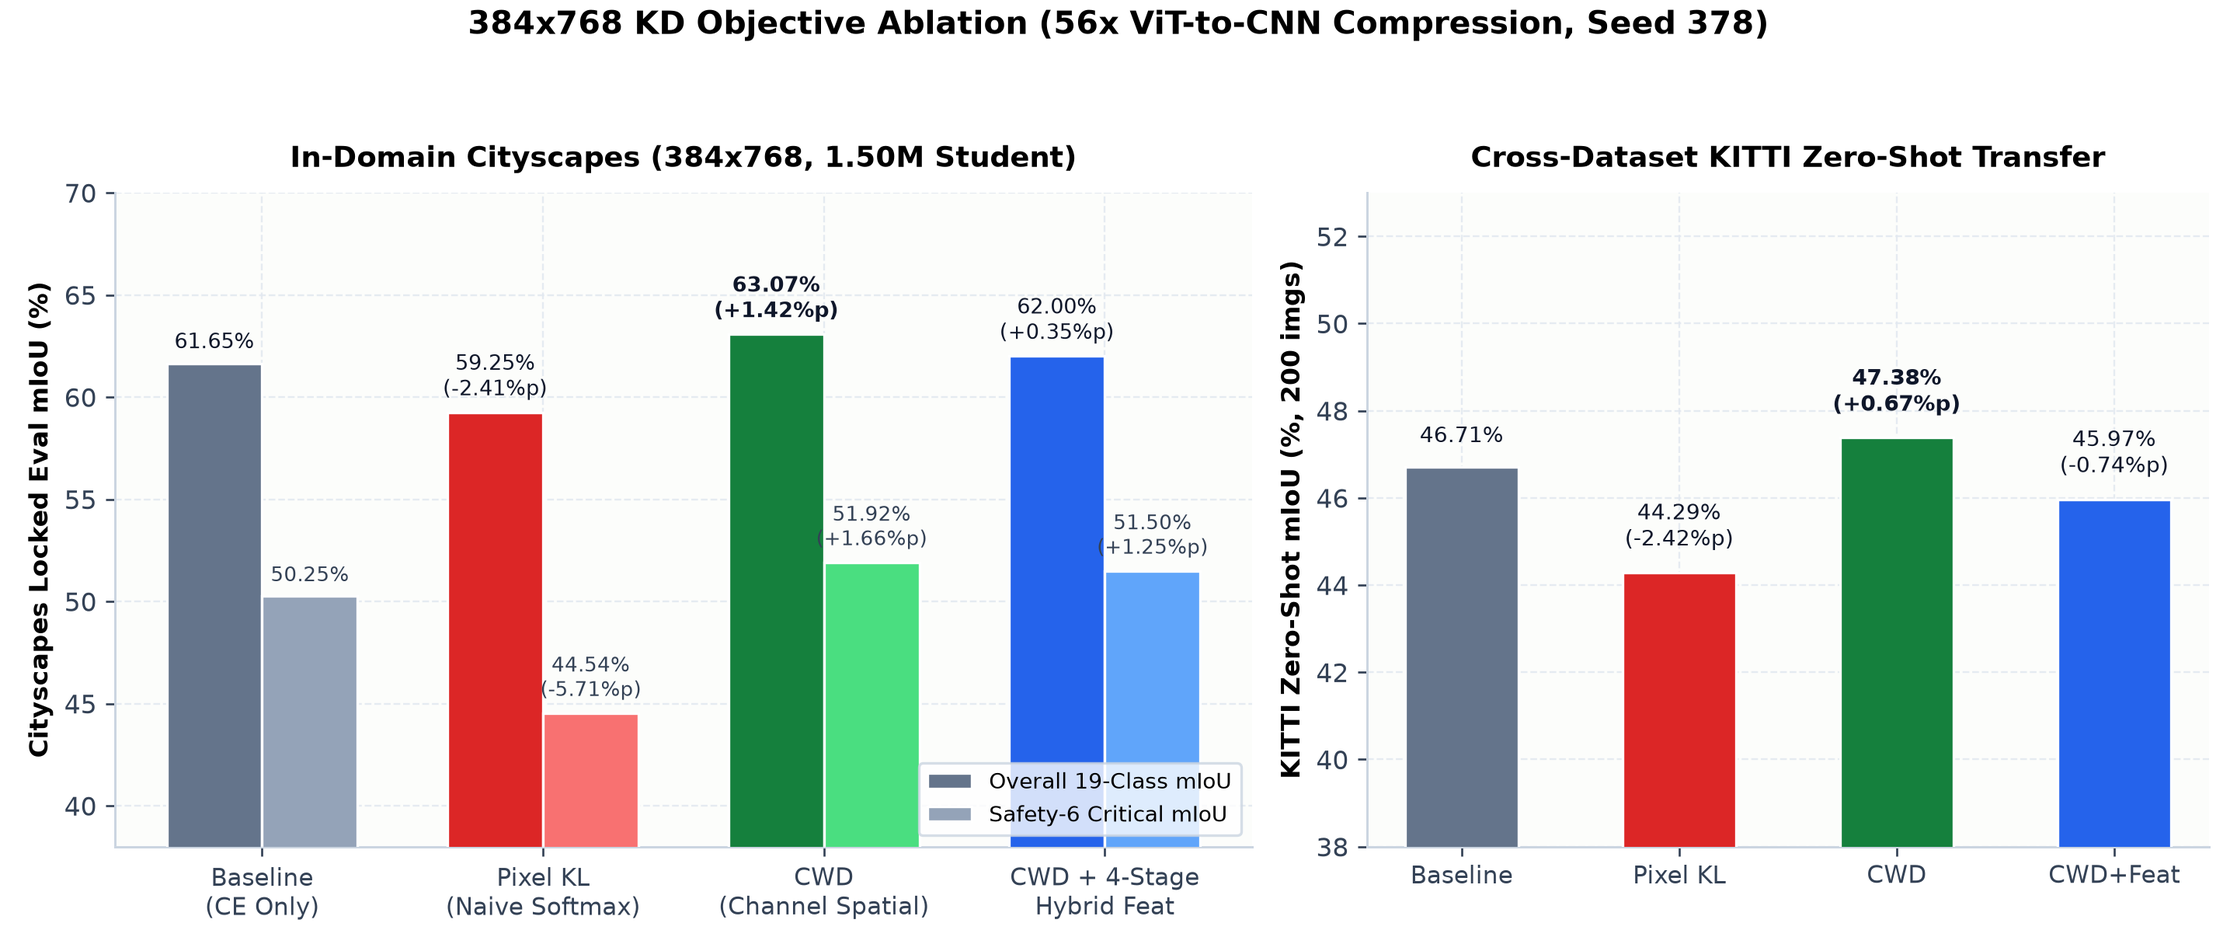
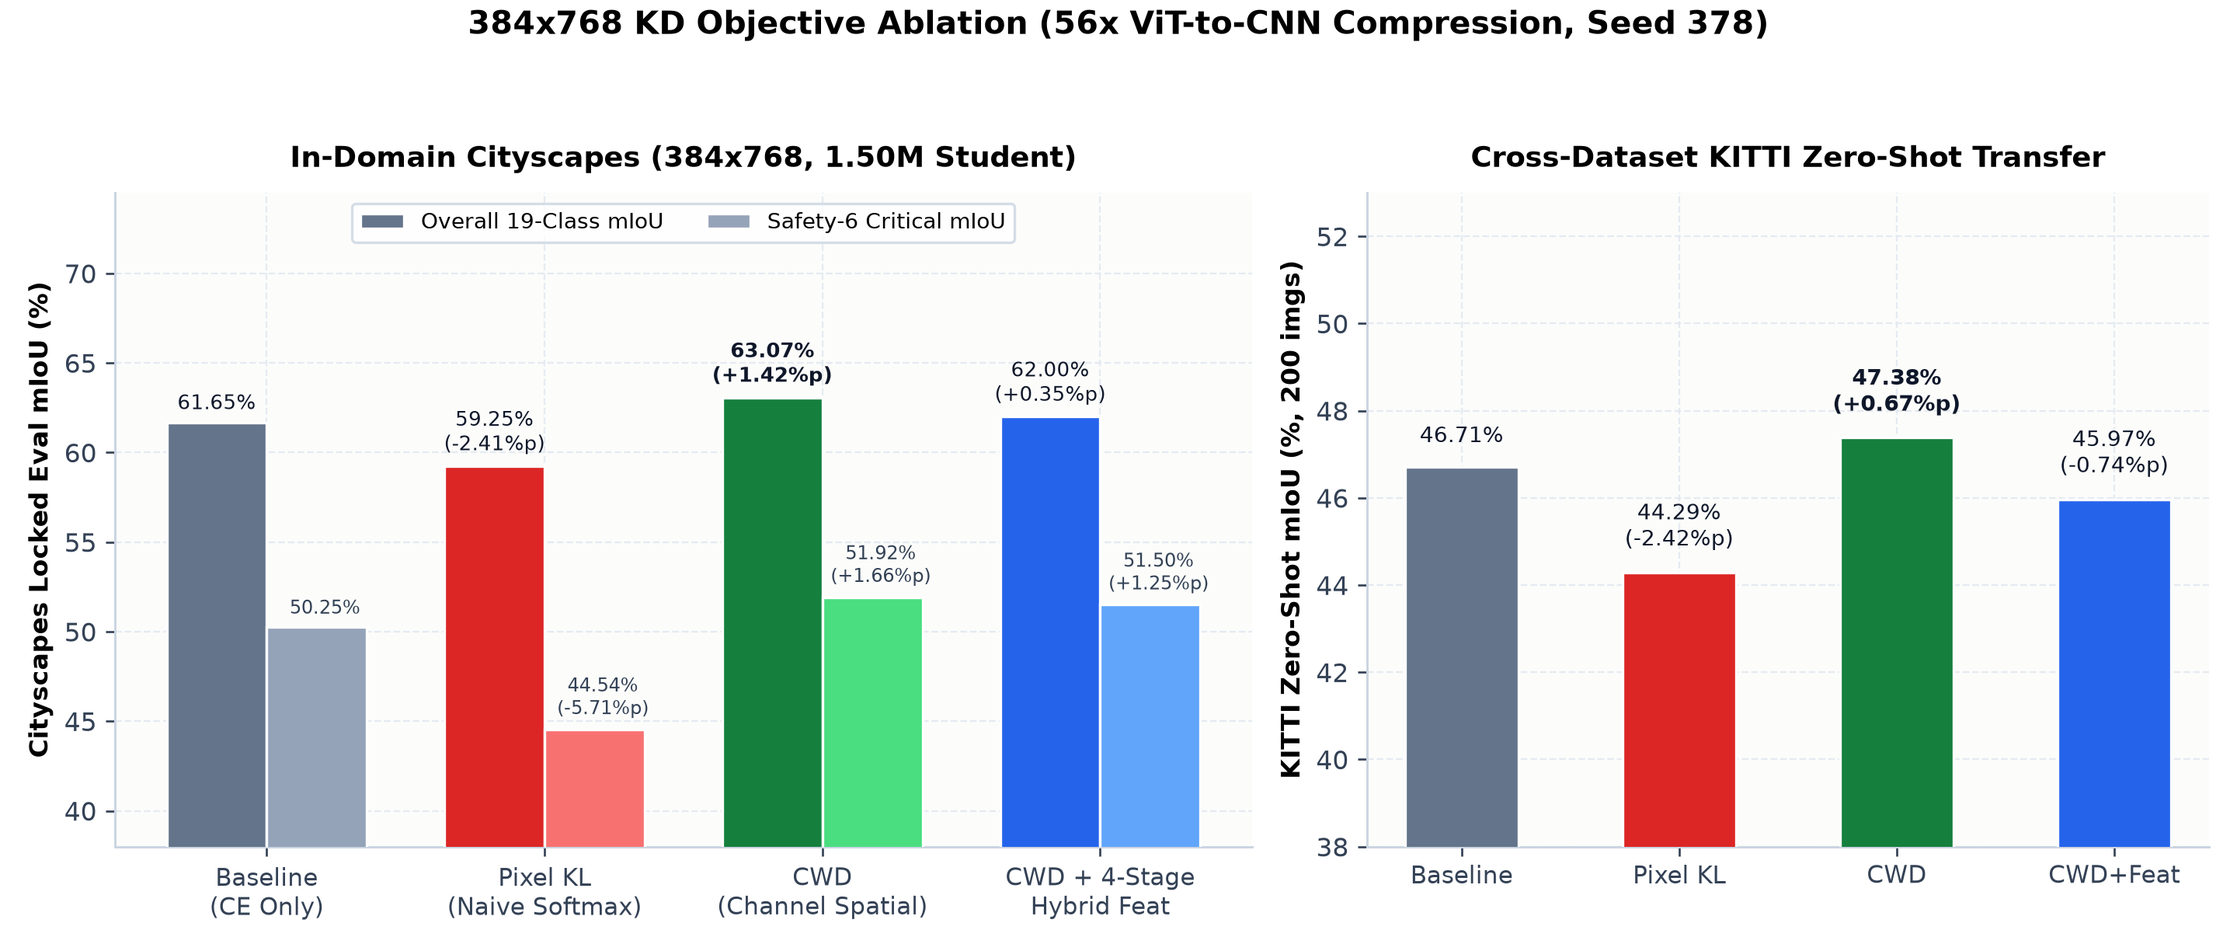
Fix architecture docs/LaTeX, CLI wrapping, and figure label spacing

diff --git a/scripts/generate_reports_and_figures.py b/scripts/generate_reports_and_figures.py
@@ -363,8 +363,8 @@ def plot_robustness_breakthrough(summary: dict[str, Any]) -> None:
     # Highlight the sensor noise breakthrough in completely clean upper-right space
     ax.annotate(
         "7.91 MiB INT8 (59.59%) surpasses 84.6M Teacher (59.19%)!\n+45.84%p recovery vs v3 Clean INT8 (13.75%)",
-        xy=(4 + 2 * width, 61.5),
-        xytext=(3.52, 81.0),
+        xy=(4 + 2 * width, 64.4),
+        xytext=(3.52, 81.5),
         ha="center",
         va="center",
         fontsize=8.7,
@@ -409,7 +409,7 @@ def plot_method_ablation_384(summary: dict[str, Any]) -> None:
     fig, (ax1, ax2) = plt.subplots(1, 2, figsize=(12.0, 5.1), dpi=240, gridspec_kw={"width_ratios": [1.35, 1.0]})
 
     x = np.arange(len(methods))
-    w = 0.34
+    w = 0.36
     colors_o = ["#64748B", "#DC2626", "#15803D", "#2563EB"]
     colors_s = ["#94A3B8", "#F87171", "#4ADE80", "#60A5FA"]
 
@@ -421,15 +421,15 @@ def plot_method_ablation_384(summary: dict[str, Any]) -> None:
         vo, vs = overall[i], safety[i]
         d_o = "" if i == 0 else f"\n({vo - base_o:+.2f}%p)"
         d_s = "" if i == 0 else f"\n({vs - base_s:+.2f}%p)"
-        ax1.text(bar_o.get_x() + bar_o.get_width() / 2, vo + 0.5, f"{vo:.2f}%{d_o}", ha="center", va="bottom", fontsize=8.0, fontweight="bold" if i == 2 else "normal", color="#0F172A")
-        ax1.text(bar_s.get_x() + bar_s.get_width() / 2, vs + 0.5, f"{vs:.2f}%{d_s}", ha="center", va="bottom", fontsize=7.8, color="#334155")
+        ax1.text(bar_o.get_x() + bar_o.get_width() / 2, vo + 0.5, f"{vo:.2f}%{d_o}", ha="center", va="bottom", fontsize=7.8, fontweight="bold" if i == 2 else "normal", color="#0F172A")
+        ax1.text(bar_s.get_x() + bar_s.get_width() / 2 + 0.03, vs + 0.5, f"{vs:.2f}%{d_s}", ha="center", va="bottom", fontsize=7.3, color="#334155")
 
     ax1.set_xticks(x)
     ax1.set_xticklabels(labels, fontsize=9.2)
-    ax1.set_ylim(38, 70)
+    ax1.set_ylim(38, 74.5)
     ax1.set_ylabel("Cityscapes Locked Eval mIoU (%)", fontsize=10.0)
     ax1.set_title("In-Domain Cityscapes (384x768, 1.50M Student)", fontsize=11.0, pad=10)
-    ax1.legend(loc="lower right", frameon=True, facecolor="#FFFFFF", edgecolor="#CBD5E1", fontsize=8.5)
+    ax1.legend(loc="upper center", ncol=2, frameon=True, facecolor="#FFFFFF", edgecolor="#CBD5E1", fontsize=8.3)
     ax1.spines["top"].set_visible(False)
     ax1.spines["right"].set_visible(False)
 
@@ -681,7 +681,7 @@ def render_thumbnail_svg(summary: dict[str, Any], *, lang: str) -> Path:
 <rect x="594" y="314" width="8" height="122" rx="4" fill="#4D6B48"/>
 <text x="624" y="351" fill="#3B5936" font-size="14" font-weight="700">TRACK 02 · CLEAN PEAK INT8 · 7.91 MiB · 40.5 FPS</text>
 <text x="624" y="385" fill="#182218" font-size="23" font-weight="750">MobileNetV4-Medium Clean INT8 (Gate PASS)</text>
-<text x="624" y="416" fill="#4D5C4C" font-size="14.2">mIoU {v3_int8['miou_pct']:.2f}% (교사 90.8%) · Safety {v3_int8['safety_miou_pct']:.2f}% · KITTI 51.32% (+7.46%p)</text>
+<text x="624" y="416" fill="#4D5C4C" font-size="14.2">mIoU {v3_int8['miou_pct']:.2f}% (교사 90.8%) · Safety {v3_int8['safety_miou_pct']:.2f}% · KITTI 51.32% (+2.23%p)</text>
 
 <!-- Card 03 -->
 <rect x="594" y="456" width="558" height="126" rx="14" fill="#FFFFFF" stroke="#2B4C27" stroke-width="2.2"/>

diff --git a/docs/architecture.md b/docs/architecture.md
@@ -15,13 +15,13 @@ In autonomous driving semantic segmentation (19 Cityscapes classes), a high-capa
 
 ## 2. Teacher & Student Architectures (`seg_kd/models.py`)
 
-### Teacher (`SegFormerTeacher`)
+### Teacher (`SegformerTeacher`)
 - **Backbone**: `nvidia/segformer-b5-finetuned-cityscapes-1024-1024` (`MiT-B5`, `84,607,955` params, `323.14 MiB`)
 - **Outputs**: 19-class logits `(B, 19, H, W)` and 4-stage hierarchical feature pyramid (`s4, s8, s16, s32` with channels `[64, 128, 320, 512]`).
 - **Role**: Frozen in `eval()` + CUDA BF16 during student distillation, always consuming clean inputs.
 
-### Student (`EdgeFPNSegmenter`)
-- **Decoder**: Quantization-friendly `Conv2d(bias=False) → BatchNorm2d → ReLU` lightweight FPN with ONNX Opset 17 compatible bilinear upsampling.
+### Student (`EdgeSegStudent` + `LiteFPNDecoder`)
+- **Decoder**: Quantization-friendly `Conv2d(bias=False) → BatchNorm2d → ReLU6` lightweight FPN with ONNX Opset 17 compatible bilinear upsampling.
 - **3-Tier Pareto Backbones**:
   - `MobileNetV4-Small` (`1.50M` params, `fpn_dim=96`, 57 Conv / 55 BN): ultra-light UIB blocks (`FP32 5.72 MiB`, `INT8 1.76 MiB`).
   - `MobileNetV3-Large` (`3.30M` params, `fpn_dim=128`, 74 Conv / 56 BN): includes 18 Squeeze-and-Excitation (SE) + HardSwish paths (quantization-sensitivity control).
@@ -34,7 +34,7 @@ In autonomous driving semantic segmentation (19 Cityscapes classes), a high-capa
 ## 3. Distillation Objectives (`seg_kd/losses.py`)
 
 ### 3.1 Channel-Wise Spatial Distillation (`CWD`)
-Pixel-wise KL (`softmax` across `C` channels) is dominated by frequent background classes. `CWD` instead normalizes each channel $c$ spatially over valid pixels $\Omega = \{(h, w) : y_{h,w} \neq 255\}$:
+Pixel-wise KL (`softmax` across `C` channels) is dominated by frequent background classes. `CWD` instead normalizes each channel $c$ spatially over valid pixels $`\Omega = \lbrace (h, w) : y_{h,w} \neq 255 \rbrace`$:
 
 $$p_c^{T}(i) = \frac{\exp(z_{c,i}^{T} / \tau)}{\sum_{j \in \Omega} \exp(z_{c,j}^{T} / \tau)}, \qquad \mathcal{L}_{\mathrm{CWD}} = \frac{\tau^2}{C} \sum_{c=1}^{C} \sum_{i \in \Omega} p_c^{T}(i) \log \frac{p_c^{T}(i)}{p_c^{S}(i)}$$
 
@@ -43,9 +43,11 @@ Every class channel receives equal spatial gradient weight regardless of pixel a
 ### 3.2 4-Stage Hybrid Feature Alignment (`cwd_feat`)
 Across stages `s4, s8, s16, s32`, projected student features match frozen teacher features via a 50/50 hybrid of spatial CWD and channel-wise cosine distance:
 
-$$\mathcal{L}_{\mathrm{feat}} = \frac{1}{|S|} \sum_{s \in \{s4, s8, s16, s32\}} \Big( 0.5 \cdot \mathcal{L}_{\mathrm{CWD}}(\hat{F}_s^{S}, F_s^{T}) + 0.5 \cdot (1 - \cos(\hat{F}_s^{S}, F_s^{T})) \Big)$$
+$$\mathcal{L}_{\mathrm{feat}} = \frac{1}{|S|} \sum_{s \in \lbrace s4, s8, s16, s32 \rbrace} \Big( 0.5 \cdot \mathcal{L}_{\mathrm{CWD}}(\hat{F}_s^{S}, F_s^{T}) + 0.5 \cdot (1 - \cos(\hat{F}_s^{S}, F_s^{T})) \Big)$$
 
-The total loss is $\mathcal{L} = \mathcal{L}_{\mathrm{CE}} + \alpha_{\mathrm{kd}} \mathcal{L}_{\mathrm{CWD}} + \beta_{\mathrm{feat}} \mathcal{L}_{\mathrm{feat}}$ (`α=1.0`, `β=0.5`, unweighted CE).
+The total student objective combines unweighted CE, multi-class Dice, spatial CWD, and 4-stage hybrid feature alignment (`λ_dice = 0.25`, `α_kd = 0.8`, `β_feat = 0.4`, `T = 4.0` in `configs/l4-plan.json`):
+
+$$\mathcal{L} = \mathcal{L}_{\mathrm{CE}} + \lambda_{\mathrm{dice}} \mathcal{L}_{\mathrm{Dice}} + \alpha_{\mathrm{kd}} \mathcal{L}_{\mathrm{CWD}} + \beta_{\mathrm{feat}} \mathcal{L}_{\mathrm{feat}}$$
 
 ---
 
@@ -64,4 +66,4 @@ Clean-distilled students (`v3-max`) match `90.8%` of teacher mIoU on clean frame
 1. **BF16-Teacher QAT-KD (`6 epochs`)**: Quantization-aware fine-tuning keeps static INT8 accuracy loss strictly below `1.0%p`.
 2. **ONNX Export & Static QDQ INT8 (`seg_kd/export.py`)**: Verifies `100.0%` pixel argmax parity (`max_abs_logit_diff <= 3.6e-5`) between PyTorch and Opset 17 FP32 ONNX, then applies per-channel static QDQ INT8 calibration over 128 deterministic training frames.
 3. **Validation-Only INT8 Gate (`assess_int8_acceptance`)**: Accepts INT8 strictly when all 4 validation checks pass (`val_mIoU_drop <= 1.0%p`, `val_safety_drop <= 1.5%p`, `size_ratio < 1.0`, `CPU_p50_speedup >= 1.20×`).
-4. **Post-Hoc Validation Temperature Scaling (`seg_kd/evaluation.py`)**: Fits a single scalar temperature $T^*$ on `validation` NLL (`T* ≈ 1.70` across all CWD students), cutting `locked_eval` ECE by `69.5–78.5%` with mathematically zero mIoU change (`0.00%p`) and `0 ms` inference overhead.
+4. **Post-Hoc Validation Temperature Scaling (`seg_kd/evaluation.py`)**: Fits a single scalar temperature $`T^*`$ on `validation` NLL (`T* ≈ 1.70` across all CWD students), cutting `locked_eval` ECE by `69.5–78.5%` with mathematically zero mIoU change (`0.00%p`) and `0 ms` inference overhead.

diff --git a/docs/architecture.ko.md b/docs/architecture.ko.md
@@ -15,13 +15,13 @@
 
 ## 2. 교사·학생 모델 구조 (`seg_kd/models.py`)
 
-### 교사 (`SegFormerTeacher`)
+### 교사 (`SegformerTeacher`)
 - **백본**: `nvidia/segformer-b5-finetuned-cityscapes-1024-1024` (`MiT-B5`, `84,607,955` 파라미터, 체크포인트 `323.14 MiB`)
 - **출력**: 19클래스 로짓 `(B, 19, H, W)` 및 4단계 계층 특징 맵(`s4`, `s8`, `s16`, `s32`: 채널 `[64, 128, 320, 512]`)
 - **역할**: 학생 학습 시 `eval()` + `torch.no_grad()` + CUDA BF16으로 동결(frozen)되어 깨끗한 입력 프레임의 정밀 공간 분포와 다중 스케일 특징을 제공합니다.
 
-### 학생 (`EdgeFPNSegmenter`)
-- **공통 디코더**: 양자화 융합에 친화적인 `Conv2d(bias=False) → BatchNorm2d → ReLU` 경량 FPN 디코더(모든 업샘플은 ONNX Opset 17 호환 `bilinear`)
+### 학생 (`EdgeSegStudent` + `LiteFPNDecoder`)
+- **공통 디코더**: 양자화 융합에 친화적인 `Conv2d(bias=False) → BatchNorm2d → ReLU6` 경량 FPN 디코더(모든 업샘플은 ONNX Opset 17 호환 `bilinear`)
 - **3단계 Pareto 백본 티어**:
   - `MobileNetV4-Small` (`1.50M` params, `fpn_dim=96`, 57 Conv / 55 BN): 초경량 UIB 블록 (`FP32 5.72 MiB`, `INT8 1.76 MiB`)
   - `MobileNetV3-Large` (`3.30M` params, `fpn_dim=128`, 74 Conv / 56 BN): 18개 Squeeze-and-Excitation(SE) + HardSwish 포함(정적 INT8 민감성 대조군)
@@ -43,9 +43,11 @@ $$p_c^{T}(i) = \frac{\exp(z_{c,i}^{T} / \tau)}{\sum_{j \in \Omega} \exp(z_{c,j}^
 ### 3.2 4단계 하이브리드 특징 정렬 (`cwd_feat`)
 이종 아키텍처(Transformer ↔ CNN)의 4단계(`s4, s8, s16, s32`) 특징 맵을 단일 정규화에만 의존하지 않고 공간 집중도(`CWD`)와 채널 방향성(`Cosine`)을 절반씩 결합합니다.
 
-$$\mathcal{L}_{\mathrm{feat}} = \frac{1}{|S|} \sum_{s \in \{s4, s8, s16, s32\}} \Big( 0.5 \cdot \mathcal{L}_{\mathrm{CWD}}(\hat{F}_s^{S}, F_s^{T}) + 0.5 \cdot (1 - \cos(\hat{F}_s^{S}, F_s^{T})) \Big)$$
+$$\mathcal{L}_{\mathrm{feat}} = \frac{1}{|S|} \sum_{s \in \lbrace s4, s8, s16, s32 \rbrace} \Big( 0.5 \cdot \mathcal{L}_{\mathrm{CWD}}(\hat{F}_s^{S}, F_s^{T}) + 0.5 \cdot (1 - \cos(\hat{F}_s^{S}, F_s^{T})) \Big)$$
 
-전체 학생 목적 함수는 $\mathcal{L} = \mathcal{L}_{\mathrm{CE}} + \alpha_{\mathrm{kd}} \mathcal{L}_{\mathrm{CWD}} + \beta_{\mathrm{feat}} \mathcal{L}_{\mathrm{feat}}$ (`α=1.0`, `β=0.5`, 무가중 CE)입니다.
+전체 학생 목적 함수는 무가중 CE, 다중 클래스 Dice, 공간 CWD, 4단계 하이브리드 특징 정렬의 합(`configs/l4-plan.json` 기준 `λ_dice = 0.25`, `α_kd = 0.8`, `β_feat = 0.4`, `T = 4.0`)입니다.
+
+$$\mathcal{L} = \mathcal{L}_{\mathrm{CE}} + \lambda_{\mathrm{dice}} \mathcal{L}_{\mathrm{Dice}} + \alpha_{\mathrm{kd}} \mathcal{L}_{\mathrm{CWD}} + \beta_{\mathrm{feat}} \mathcal{L}_{\mathrm{feat}}$$
 
 ---
 
@@ -68,4 +70,4 @@ $$\mathcal{L}_{\mathrm{feat}} = \frac{1}{|S|} \sum_{s \in \{s4, s8, s16, s32\}} 
    - `val_safety_mIoU_drop <= 1.5%p`
    - `INT8 file_size < FP32 file_size`
    - `CPU_p50_speedup >= 1.20×`
-4. **Validation-Only 사후 온도 보정 (`seg_kd/evaluation.py`)**: CWD 증류 학생의 로짓 샤프닝(ECE 상승)을 해소하기 위해 `validation` NLL 최소화 스칼라 온도 $T^*$를 1차원 그리드 탐색으로 추정합니다. 로짓을 $z / T^*$로 나누면 `argmax`가 수학적으로 불변(`mIoU 변화 0.00%p`)이면서 `locked_eval` ECE가 `69.5~78.5%` 감소합니다.
+4. **Validation-Only 사후 온도 보정 (`seg_kd/evaluation.py`)**: CWD 증류 학생의 로짓 샤프닝(ECE 상승)을 해소하기 위해 `validation` NLL 최소화 스칼라 온도 $`T^*`$를 1차원 그리드 탐색으로 추정합니다. 로짓을 $`z / T^*`$로 나누면 `argmax`가 수학적으로 불변(`mIoU 변화 0.00%p`)이면서 `locked_eval` ECE가 `69.5~78.5%` 감소합니다.

diff --git a/README.ko.md b/README.ko.md
@@ -60,20 +60,18 @@
 
 ## 시스템 구조 및 핵심 기법
 
-```
-Cityscapes 384×768 (train 2,529 / val 446 / locked_eval 500) + KITTI Zero-Shot (200)
-   │
-   ├─ Clean RGB ──▶ Frozen SegFormer-B5 Teacher (84.6M, MiT-B5, BF16)
-   │                     └─ 4-Stage Features (s4, s8, s16, s32) + Clean Logits (19ch)
-   │
-   └─ Clean / Corrupted RGB ──▶ MobileNetV4-Medium + FPN Student (7.54M, UIB Conv-BN-ReLU)
-                                  ├─ L_CE (unweighted, ignore_index=255)
-                                  ├─ L_CWD (Channel-wise Spatial Softmax KL over H×W, T=4.0)
-                                  ├─ L_Feat (1×1 Projector Bank: 0.5·CWD + 0.5·Cosine across 4 stages)
-                                  └─ BF16-Teacher QAT-KD (6 ep) ─▶ ONNX FP32/INT8 (QDQ, 128-img Calib)
-                                                                       ├─ Validation-Only INT8 Gate (4/4)
-                                                                       ├─ Validation-Only Temp Scaling (T*≈1.70)
-                                                                       └─ SHA-256 Frozen Locked Eval & KITTI
+```text
+Cityscapes 384x768 (train 2,529 / val 446 / locked 500) + KITTI Zero-Shot (200)
+  |- Clean RGB --------> Frozen SegFormer-B5 Teacher (84.6M, MiT-B5, BF16)
+  |                        `- 4-Stage Pyramid (s4..s32) + Clean Logits (19ch)
+  `- Clean/Corrupt RGB -> MobileNetV4-Medium + FPN Student (7.54M, UIB Conv-BN)
+                           |- L_CE + 0.25*L_Dice (unweighted, ignore=255)
+                           |- L_CWD (Channel Spatial Softmax KL, T=4.0)
+                           |- L_Feat (1x1 Projector: 0.5*CWD + 0.5*Cosine)
+                           `- QAT-KD (6 ep) -> ONNX FP32/INT8 (QDQ, 128 calib)
+                                 |- Validation-Only INT8 Gate (4/4 checks)
+                                 |- Validation-Only Temp Scaling (T*~=1.70)
+                                 `- SHA-256 Frozen Locked Eval & KITTI
 ```
 
 1. **Channel-Wise Spatial Distillation (`CWD`)**: 클래스 픽셀 불균형이 극심한 도로 장면에서 픽셀별 KL(`softmax` over `C`)은 소수 안전 클래스를 희석합니다. 채널별 공간 맵(`softmax` over `H×W`)을 정렬해 신호등·보행자·자전거 경계를 선명하게 전이합니다.
@@ -94,7 +92,11 @@ python -m seg_kd doctor
 
 # 2. 단위 테스트 및 1분 End-to-End 파이프라인 스모크 테스트
 python -m unittest discover -s tests -v
-python scripts/run_l4_study.py --plan configs/l4-plan.json --manifest /tmp/syn-manifest.json --data /tmp/syn-data --output /tmp/syn-out --smoke
+python -m seg_kd prepare-data --dataset synthetic \
+  --data ./tmp/syn-data --output ./tmp/syn-manifest.json --image-size 128x256
+python scripts/run_l4_study.py --plan configs/l4-plan.json \
+  --manifest ./tmp/syn-manifest.json --data ./tmp/syn-data \
+  --output ./tmp/syn-out --smoke
 ```
 
 전체 NVIDIA L4 실험은 자립형 노트북 [`notebooks/colab_enterprise_l4_one_shot.ipynb`](./notebooks/colab_enterprise_l4_one_shot.ipynb)의 `Run All` 한 번으로 재현할 수 있습니다. 자세한 단계별 CLI와 데이터 준비 절차는 [`docs/reproduction.ko.md`](./docs/reproduction.ko.md)를 참고하십시오.

diff --git a/README.md b/README.md
@@ -60,20 +60,18 @@ All dataset splits (`train 2,529 / validation 446 / locked_eval 500`), model sel
 
 ## Architecture & Core Techniques
 
-```
-Cityscapes 384×768 (train 2,529 / val 446 / locked_eval 500) + KITTI Zero-Shot (200)
-   │
-   ├─ Clean RGB ──▶ Frozen SegFormer-B5 Teacher (84.6M, MiT-B5, BF16)
-   │                     └─ 4-Stage Features (s4, s8, s16, s32) + Clean Logits (19ch)
-   │
-   └─ Clean / Corrupted RGB ──▶ MobileNetV4-Medium + FPN Student (7.54M, UIB Conv-BN-ReLU)
-                                  ├─ L_CE (unweighted, ignore_index=255)
-                                  ├─ L_CWD (Channel-wise Spatial Softmax KL over H×W, T=4.0)
-                                  ├─ L_Feat (1×1 Projector Bank: 0.5·CWD + 0.5·Cosine across 4 stages)
-                                  └─ BF16-Teacher QAT-KD (6 ep) ─▶ ONNX FP32/INT8 (QDQ, 128-img Calib)
-                                                                       ├─ Validation-Only INT8 Gate (4/4)
-                                                                       ├─ Validation-Only Temp Scaling (T*≈1.70)
-                                                                       └─ SHA-256 Frozen Locked Eval & KITTI
+```text
+Cityscapes 384x768 (train 2,529 / val 446 / locked 500) + KITTI Zero-Shot (200)
+  |- Clean RGB --------> Frozen SegFormer-B5 Teacher (84.6M, MiT-B5, BF16)
+  |                        `- 4-Stage Pyramid (s4..s32) + Clean Logits (19ch)
+  `- Clean/Corrupt RGB -> MobileNetV4-Medium + FPN Student (7.54M, UIB Conv-BN)
+                           |- L_CE + 0.25*L_Dice (unweighted, ignore=255)
+                           |- L_CWD (Channel Spatial Softmax KL, T=4.0)
+                           |- L_Feat (1x1 Projector: 0.5*CWD + 0.5*Cosine)
+                           `- QAT-KD (6 ep) -> ONNX FP32/INT8 (QDQ, 128 calib)
+                                 |- Validation-Only INT8 Gate (4/4 checks)
+                                 |- Validation-Only Temp Scaling (T*~=1.70)
+                                 `- SHA-256 Frozen Locked Eval & KITTI
 ```
 
 See [`docs/architecture.md`](./docs/architecture.md) for equations and module details, and [`docs/results.md`](./docs/results.md) for complete ablation tables and failure analysis.
@@ -89,7 +87,11 @@ python -m seg_kd doctor
 
 # 2. Run unit tests & end-to-end synthetic smoke pipeline
 python -m unittest discover -s tests -v
-python scripts/run_l4_study.py --plan configs/l4-plan.json --manifest /tmp/syn-manifest.json --data /tmp/syn-data --output /tmp/syn-out --smoke
+python -m seg_kd prepare-data --dataset synthetic \
+  --data ./tmp/syn-data --output ./tmp/syn-manifest.json --image-size 128x256
+python scripts/run_l4_study.py --plan configs/l4-plan.json \
+  --manifest ./tmp/syn-manifest.json --data ./tmp/syn-data \
+  --output ./tmp/syn-out --smoke
 ```
 
 The complete NVIDIA L4 study is reproducible in one click via the self-contained notebook [`notebooks/colab_enterprise_l4_one_shot.ipynb`](./notebooks/colab_enterprise_l4_one_shot.ipynb). Step-by-step instructions are in [`docs/reproduction.md`](./docs/reproduction.md).

diff --git a/docs/results.md b/docs/results.md
@@ -54,7 +54,7 @@ Every metric below is extracted directly from frozen NVIDIA L4 (`22.03 GiB`, CUD
 
 ## 4. Validation-Only Post-Hoc Temperature Scaling
 
-| Model | Optimal $T^*$ (Val) | ECE Before | ECE After | Reduction | Locked mIoU Delta |
+| Model | Optimal $`T^*`$ (Val) | ECE Before | ECE After | Reduction | Locked mIoU Delta |
 |---|---:|---:|---:|---:|---:|
 | `MobileNetV4-Small` Baseline | 1.20 | 0.0151 | 0.0008 | -94.4% | 0.00%p |
 | `MobileNetV4-Small` CWD+Feat | **1.71** | 0.0305 | 0.0066 | **-78.5%** | 0.00%p |

diff --git a/docs/reproduction.ko.md b/docs/reproduction.ko.md
@@ -17,7 +17,8 @@ python -m seg_kd doctor
 python -m unittest discover -s tests -v
 
 # 3. 합성 도로 데이터 End-to-End 스모크 파이프라인 실행
-python -m seg_kd prepare-data --dataset synthetic --data ./tmp/syn-data --output ./tmp/syn-manifest.json --image-size 128x256
+python -m seg_kd prepare-data --dataset synthetic \
+  --data ./tmp/syn-data --output ./tmp/syn-manifest.json --image-size 128x256
 python scripts/run_l4_study.py \
   --plan configs/l4-plan.json \
   --manifest ./tmp/syn-manifest.json \

diff --git a/docs/results.ko.md b/docs/results.ko.md
@@ -62,7 +62,7 @@
 
 ## 4. 사후 온도 보정 (Validation-Only Temperature Scaling)
 
-| 모델 | 최적 온도 $T^*$ (Val) | 보정 전 ECE | 보정 후 ECE | ECE 감소율 | Locked mIoU 변화 |
+| 모델 | 최적 온도 $`T^*`$ (Val) | 보정 전 ECE | 보정 후 ECE | ECE 감소율 | Locked mIoU 변화 |
 |---|---:|---:|---:|---:|---:|
 | `MobileNetV4-Small` Baseline | 1.20 | 0.0151 | 0.0008 | -94.4% | 0.00%p |
 | `MobileNetV4-Small` CWD+Feat | **1.71** | 0.0305 | 0.0066 | **-78.5%** | 0.00%p |

diff --git a/docs/reproduction.md b/docs/reproduction.md
@@ -17,7 +17,8 @@ python -m seg_kd doctor
 python -m unittest discover -s tests -v
 
 # 3. End-to-end synthetic driving smoke pipeline
-python -m seg_kd prepare-data --dataset synthetic --data ./tmp/syn-data --output ./tmp/syn-manifest.json --image-size 128x256
+python -m seg_kd prepare-data --dataset synthetic \
+  --data ./tmp/syn-data --output ./tmp/syn-manifest.json --image-size 128x256
 python scripts/run_l4_study.py \
   --plan configs/l4-plan.json \
   --manifest ./tmp/syn-manifest.json \
